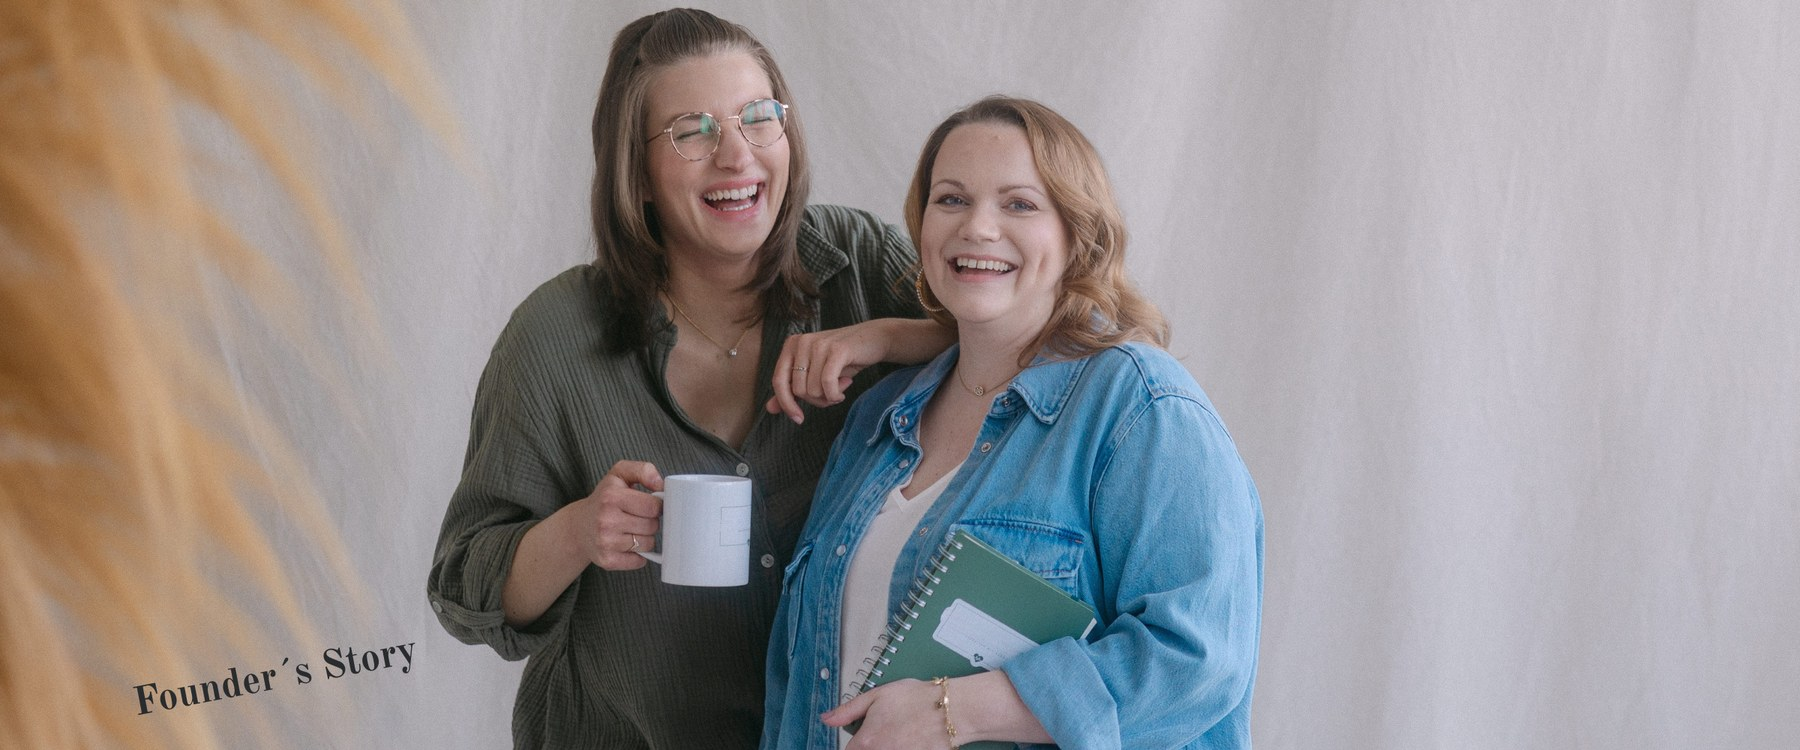
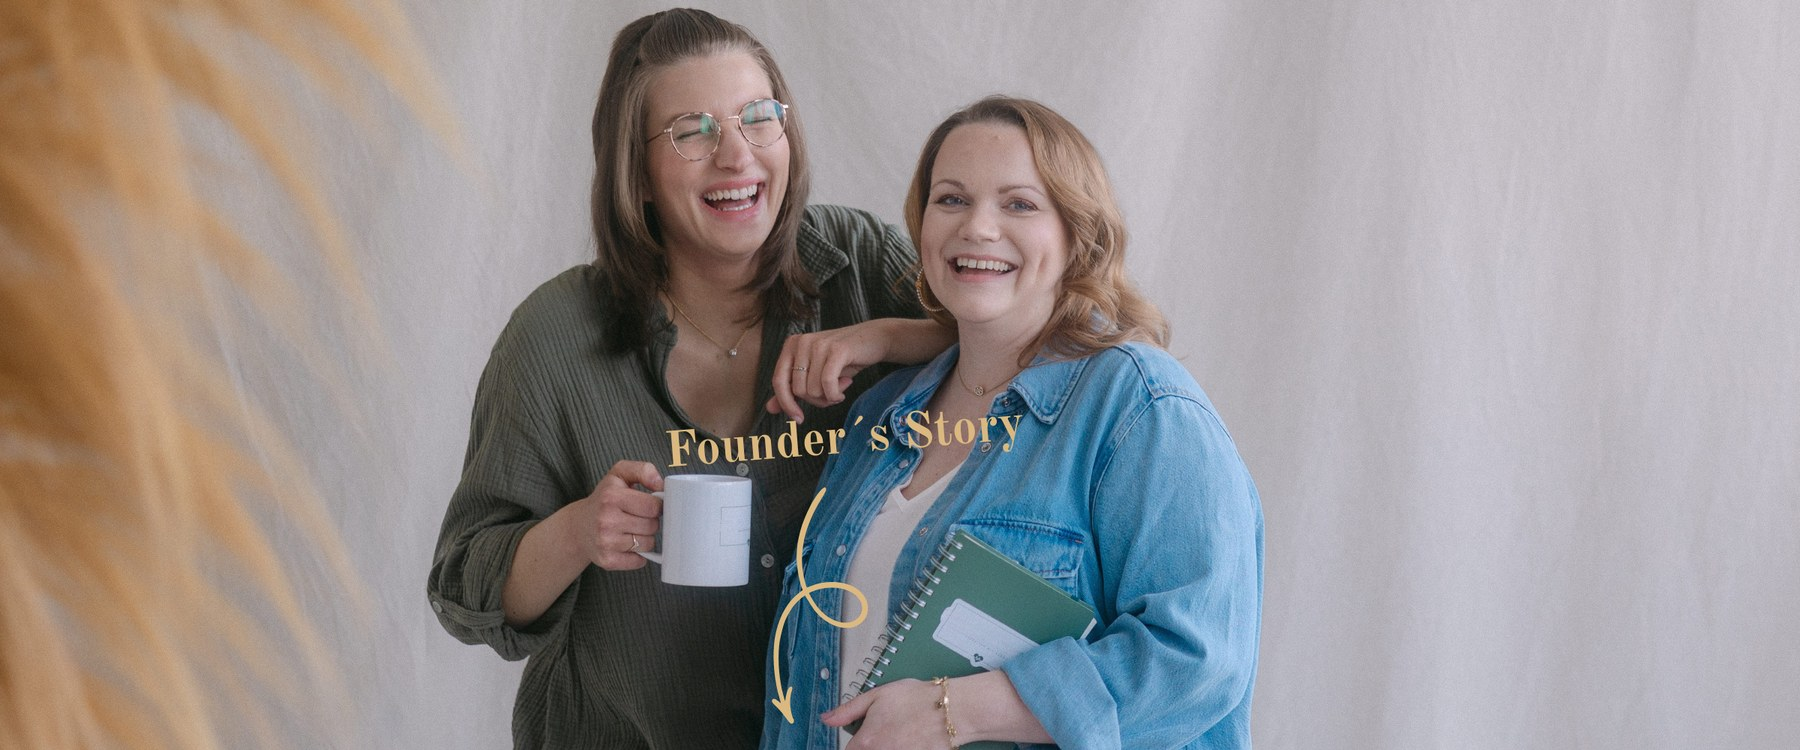
Fix mobile hero fill for real, swap founders-story image, drop arrow
- Root cause of the mobile hero cropping: .hero grows taller than one
  viewport once its text content is accounted for, and .hero__intro
  (inset: 0) was stretching the intro photos to cover that whole tall
  section instead of one screenful - producing an absurdly narrow
  effective crop that sliced through both women. Capped it to 100vh on
  mobile and restored the dedicated portrait crops (hero-intro-*-
  mobile.jpg, previously deleted) via <picture>/<source>. Verified
  both women fully visible, edge-to-edge, at 320-412px widths.
- Über uns: swap in the client's latest Founder's Story photo, which
  has its own arrow baked in, and remove the separate SVG arrow I'd
  added (now redundant/duplicated).

Claude-Session: https://claude.ai/code/session_01NjvXYwXuPSC6ymX2jvEvzR

diff --git a/css/style.css b/css/style.css
@@ -304,6 +304,16 @@ p { margin: 0 0 1em; }
   overflow: hidden;
   pointer-events: none;
 }
+@media (max-width: 640px) {
+  /* .hero itself grows taller than one screen once its text content is
+     accounted for (min-height: 100vh only sets a floor), so inset: 0
+     here was stretching the intro photos to cover that whole tall
+     section instead of one screenful - forcing an absurdly narrow
+     effective crop that sliced through both women. Cap it to the
+     viewport itself so the dedicated mobile crops render at something
+     close to their intended aspect ratio. */
+  .hero__intro { top: 0; left: 0; right: 0; bottom: auto; height: 100vh; }
+}
 .hero__intro-img {
   position: absolute;
   inset: 0;
@@ -315,12 +325,9 @@ p { margin: 0 0 1em; }
   transform: scale(1.03);
   transition: opacity 0.5s ease, transform 0.6s ease;
 }
-@media (max-width: 640px) {
-  /* A landscape photo forced to cover a full-height phone screen has to
-     crop out one of the two women. Showing the whole photo (letterboxed
-     against the hero gradient) keeps both of them fully visible. */
-  .hero__intro-img { object-fit: contain; object-position: center center; }
-}
+/* Below 640px the <picture> sources swap in dedicated portrait crops
+   (hero-intro-*-mobile.jpg) made for phone aspect ratios, so cover-fill
+   still works full-bleed without slicing anyone off the side. */
 .hero__intro-img.is-active {
   opacity: 1;
   transform: scale(1);
@@ -671,7 +678,7 @@ p { margin: 0 0 1em; }
 }
 .founders-story {
   position: relative;
-  margin: 1.5rem 0 2.25rem;
+  margin: 1.5rem 0 1.25rem;
 }
 .founders-story__img {
   width: 100%;
@@ -680,17 +687,6 @@ p { margin: 0 0 1em; }
   display: block;
   margin: 0 auto;
   border-radius: 8px;
-}
-.founders-story__arrow {
-  position: absolute;
-  left: 14%;
-  bottom: -3.5rem;
-  width: 120px;
-  height: auto;
-  color: var(--color-ink);
-}
-@media (max-width: 640px) {
-  .founders-story__arrow { width: 84px; bottom: -2.5rem; left: 10%; }
 }
 
 /* ---------- Über uns: Weg-Story ---------- */

diff --git a/index.html b/index.html
@@ -37,9 +37,18 @@
   <section class="hero">
     <div class="hero__bg"></div>
     <div class="hero__intro" aria-hidden="true">
-      <img class="hero__intro-img" src="assets/images/hero-intro-1.jpg" alt="" loading="eager">
-      <img class="hero__intro-img" src="assets/images/hero-intro-2.jpg" alt="" loading="eager">
-      <img class="hero__intro-img" src="assets/images/hero-intro-3.jpg" alt="" loading="eager">
+      <picture>
+        <source media="(max-width: 640px)" srcset="assets/images/hero-intro-1-mobile.jpg">
+        <img class="hero__intro-img" src="assets/images/hero-intro-1.jpg" alt="" loading="eager">
+      </picture>
+      <picture>
+        <source media="(max-width: 640px)" srcset="assets/images/hero-intro-2-mobile.jpg">
+        <img class="hero__intro-img" src="assets/images/hero-intro-2.jpg" alt="" loading="eager">
+      </picture>
+      <picture>
+        <source media="(max-width: 640px)" srcset="assets/images/hero-intro-3-mobile.jpg">
+        <img class="hero__intro-img" src="assets/images/hero-intro-3.jpg" alt="" loading="eager">
+      </picture>
     </div>
     <div class="hero__content">
       <p class="eyebrow" data-reveal-text>Von Abhängigkeit zu Wahlfreiheit. <span class="hero__eyebrow-break">Für Frauen, die mehr wollen als PLAN A(nstellung).</span></p>

diff --git a/ueber-uns.html b/ueber-uns.html
@@ -31,10 +31,6 @@
       <p class="eyebrow" data-reveal-text data-reveal-onload>Über uns</p>
       <div class="founders-story" data-reveal data-reveal-onload>
         <img src="assets/images/founders-story.jpg" alt="Founder's Story – Julia und Stephanie" class="founders-story__img">
-        <svg class="founders-story__arrow" viewBox="0 0 160 140" fill="none" xmlns="http://www.w3.org/2000/svg" aria-hidden="true">
-          <path d="M138 12 C 168 58, 96 48, 66 96" stroke="currentColor" stroke-width="5" stroke-linecap="round"/>
-          <path d="M48 76 L 66 96 L 50 114" stroke="currentColor" stroke-width="5" stroke-linecap="round" stroke-linejoin="round"/>
-        </svg>
       </div>
       <h1 data-reveal-text data-reveal-onload>Bevor wir „Frauen mit Plan B" waren, hatten wir selbst nur Plan A.</h1>
       <div style="max-width: 640px; font-size: 1.1rem;" data-reveal>
